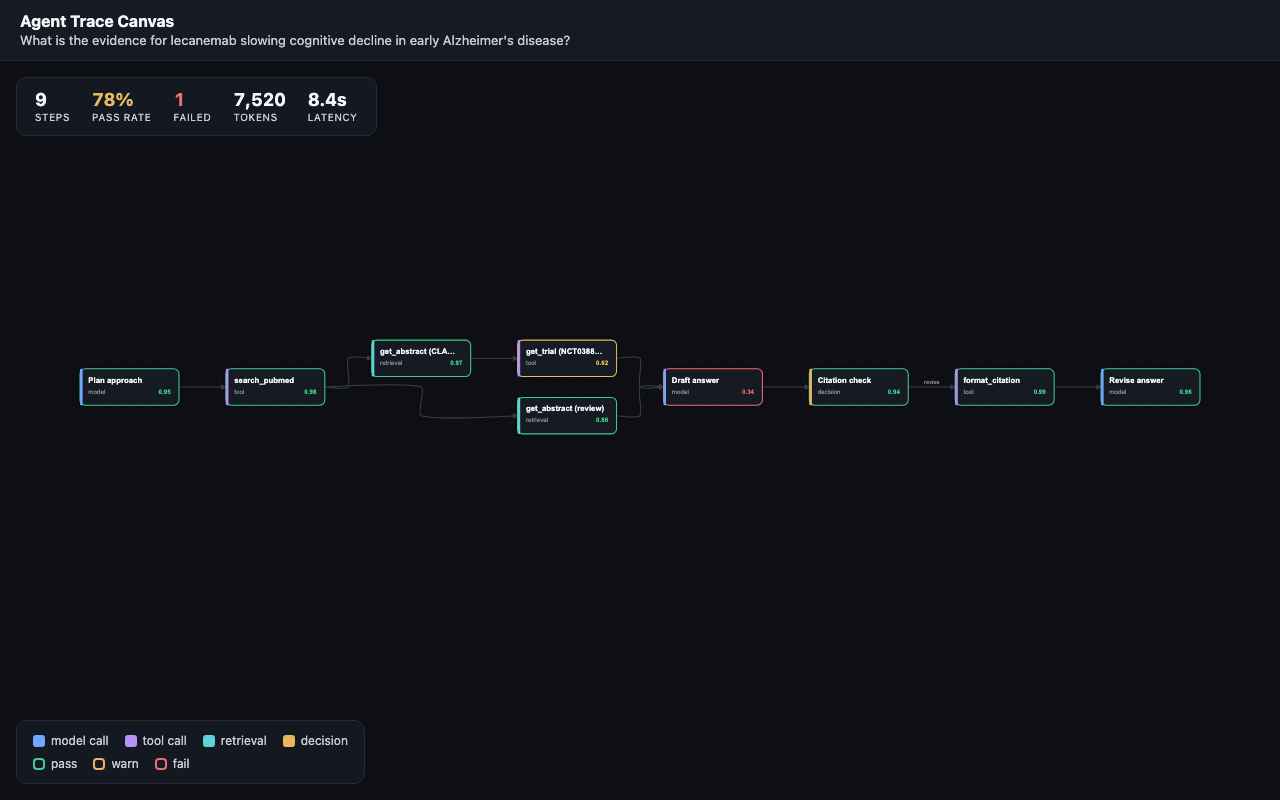
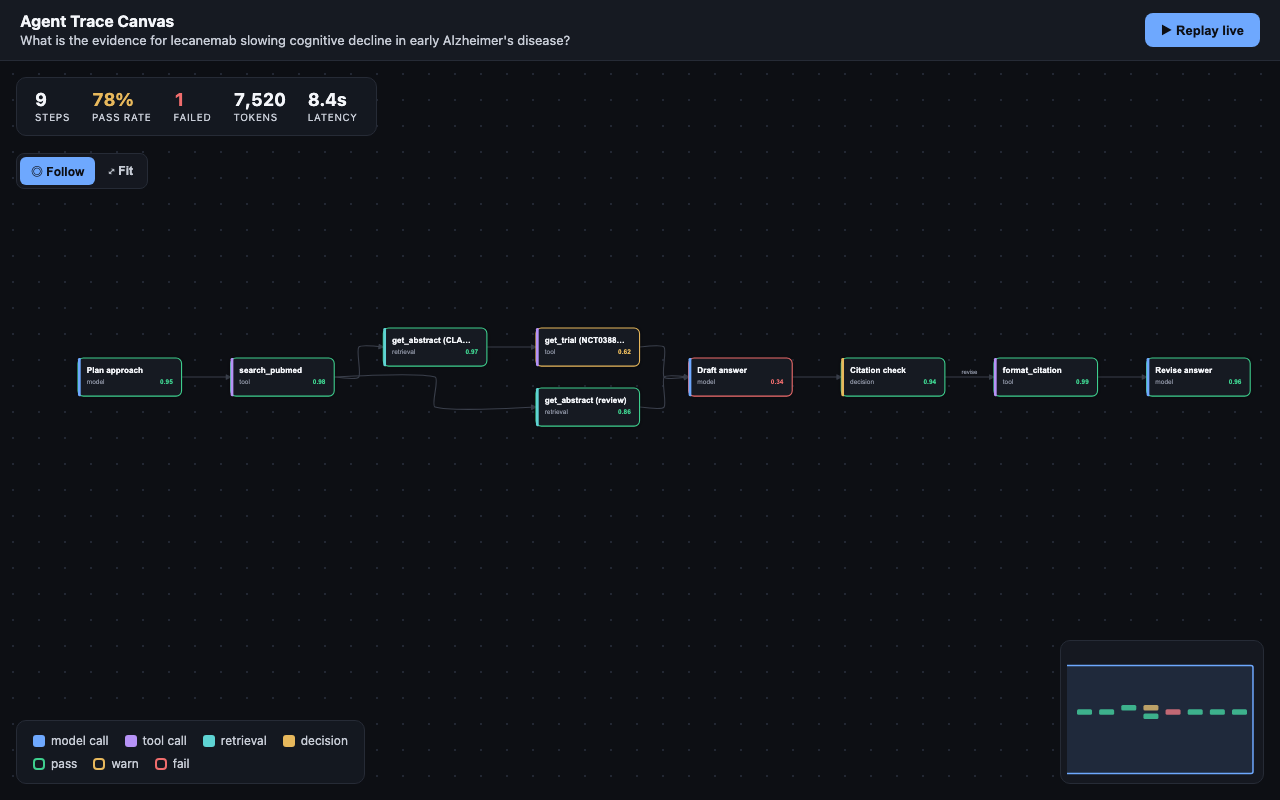
docs: bring README up to date (camera modes, live inspector, live agent, embed) + refresh screenshots
- Features: live agent mode, Follow/Fit camera modes, live-following inspector,
  mini-map, embed + postMessage control
- Stack: live-agent deps (@anthropic-ai/sdk + @modelcontextprotocol/sdk → PubCrawl)
- Roadmap reflects shipped work
- Regenerated docs/screenshot.png + docs/inspector.png from current UI

diff --git a/README.md b/README.md
@@ -26,20 +26,21 @@ canvas. (Latency/token figures are illustrative; the tool I/O is real.)
 
 ## Features
 
-- **Infinite canvas** — pan (drag) and zoom-to-cursor (scroll), rendered to a real `<canvas>` via Konva
-- **Auto-layout** — any trace lays itself out left-to-right (dagre), including branches/fan-in
-- **Eval-aware nodes** — colour-coded by `pass` / `warn` / `fail`, with per-step score
-- **Step inspector** — input, output, eval note, latency, tokens
-- **Run stats** — pass rate, failed count, total tokens, total latency
-- **Live replay** — a WebSocket server streams the run step-by-step; the graph
-  builds in real time with the active step highlighted (`▶ Replay live`, or
-  `?replay=1` to auto-start). Falls back to the static view if the socket drops.
-- **Deep links** — `?node=<id>` opens a specific step (shareable)
+- **Infinite canvas** — pan (drag) and zoom-to-cursor (scroll), rendered to a real `<canvas>` via Konva; auto-layout left-to-right (dagre), including branches/fan-in
+- **Eval-aware nodes** — colour-coded by `pass` / `warn` / `fail` with per-step score; click to inspect input, output, eval note, latency, tokens
+- **Run stats & legend** — pass rate, failed count, total tokens, total latency
+- **Live replay** — a WebSocket server streams the saved run step-by-step; the graph builds in real time with the active step highlighted (`▶ Replay`, or `?replay=1` to auto-start). Falls back to the static view if the socket drops.
+- **Live agent mode** — type a question and a real agent (Claude Sonnet 4.6 + your PubCrawl MCP) runs it, streaming genuine steps + a faithfulness eval. Rate-limited and off unless an API key is set — see [Live agent mode](#live-agent-mode-optional).
+- **Camera modes** — **Follow** (the view tracks the active step at a readable zoom, glides along, then zooms out to the whole trace at the end) or **Fit** (whole graph), toggled live.
+- **Live inspector** — during a run the detail panel follows the active step and reveals the final card when it ends, so content stays readable even on long runs.
+- **Mini-map** — an overview with a draggable viewport box.
+- **Deep links & embedding** — `?node=<id>` opens a step · `?replay=1` auto-starts replay · `?embed=1` hides chrome for iframes. When embedded, the host page can drive the canvas via `postMessage` (`{ source: 'atc', type: 'run' | 'replay' }`).
 
 ## Stack
 
 **Frontend:** React 19 + TypeScript · Vite · **Konva** (`<canvas>`) · Zustand · dagre auto-layout
-**Server:** Node (`http` + **`ws`**) serving the static build and a `/ws` replay stream
+**Server:** Node (`http` + **`ws`**) — serves the static build, a `/ws` replay stream, and a gated `/ws/live` endpoint
+**Live agent:** [`@anthropic-ai/sdk`](https://github.com/anthropics/anthropic-sdk-typescript) (Claude Sonnet 4.6) bridged to [`@modelcontextprotocol/sdk`](https://github.com/modelcontextprotocol) → PubCrawl (`@pharmatools/pubcrawl`) as a local stdio MCP subprocess
 
 ## Run locally
 
@@ -94,12 +95,12 @@ railway up
 
 ## Roadmap
 
-- [x] Pan/zoom infinite canvas
-- [x] Render agent traces with auto-layout
-- [x] Step inspector + run stats + deep links
-- [x] **Live replay** — stream the run over WebSocket, graph builds in real time
-- [x] Mini-map overview (pan/zoom navigation)
+- [x] Pan/zoom infinite canvas with auto-layout
+- [x] Step inspector + run stats + deep links + mini-map
+- [x] **Live replay** — stream the saved run over WebSocket, graph builds in real time
 - [x] **Live agent mode** — run a real agent (Claude Sonnet 4.6 + PubCrawl MCP), rate-limited
+- [x] **Camera modes** — follow-the-agent zoom (with eased glide) / fit-whole-graph, plus a live-following inspector
+- [x] **Embeddable** — `?embed=1` + host-page `postMessage` control
 - [ ] PixiJS/WebGL renderer for very large traces
 
 ---
